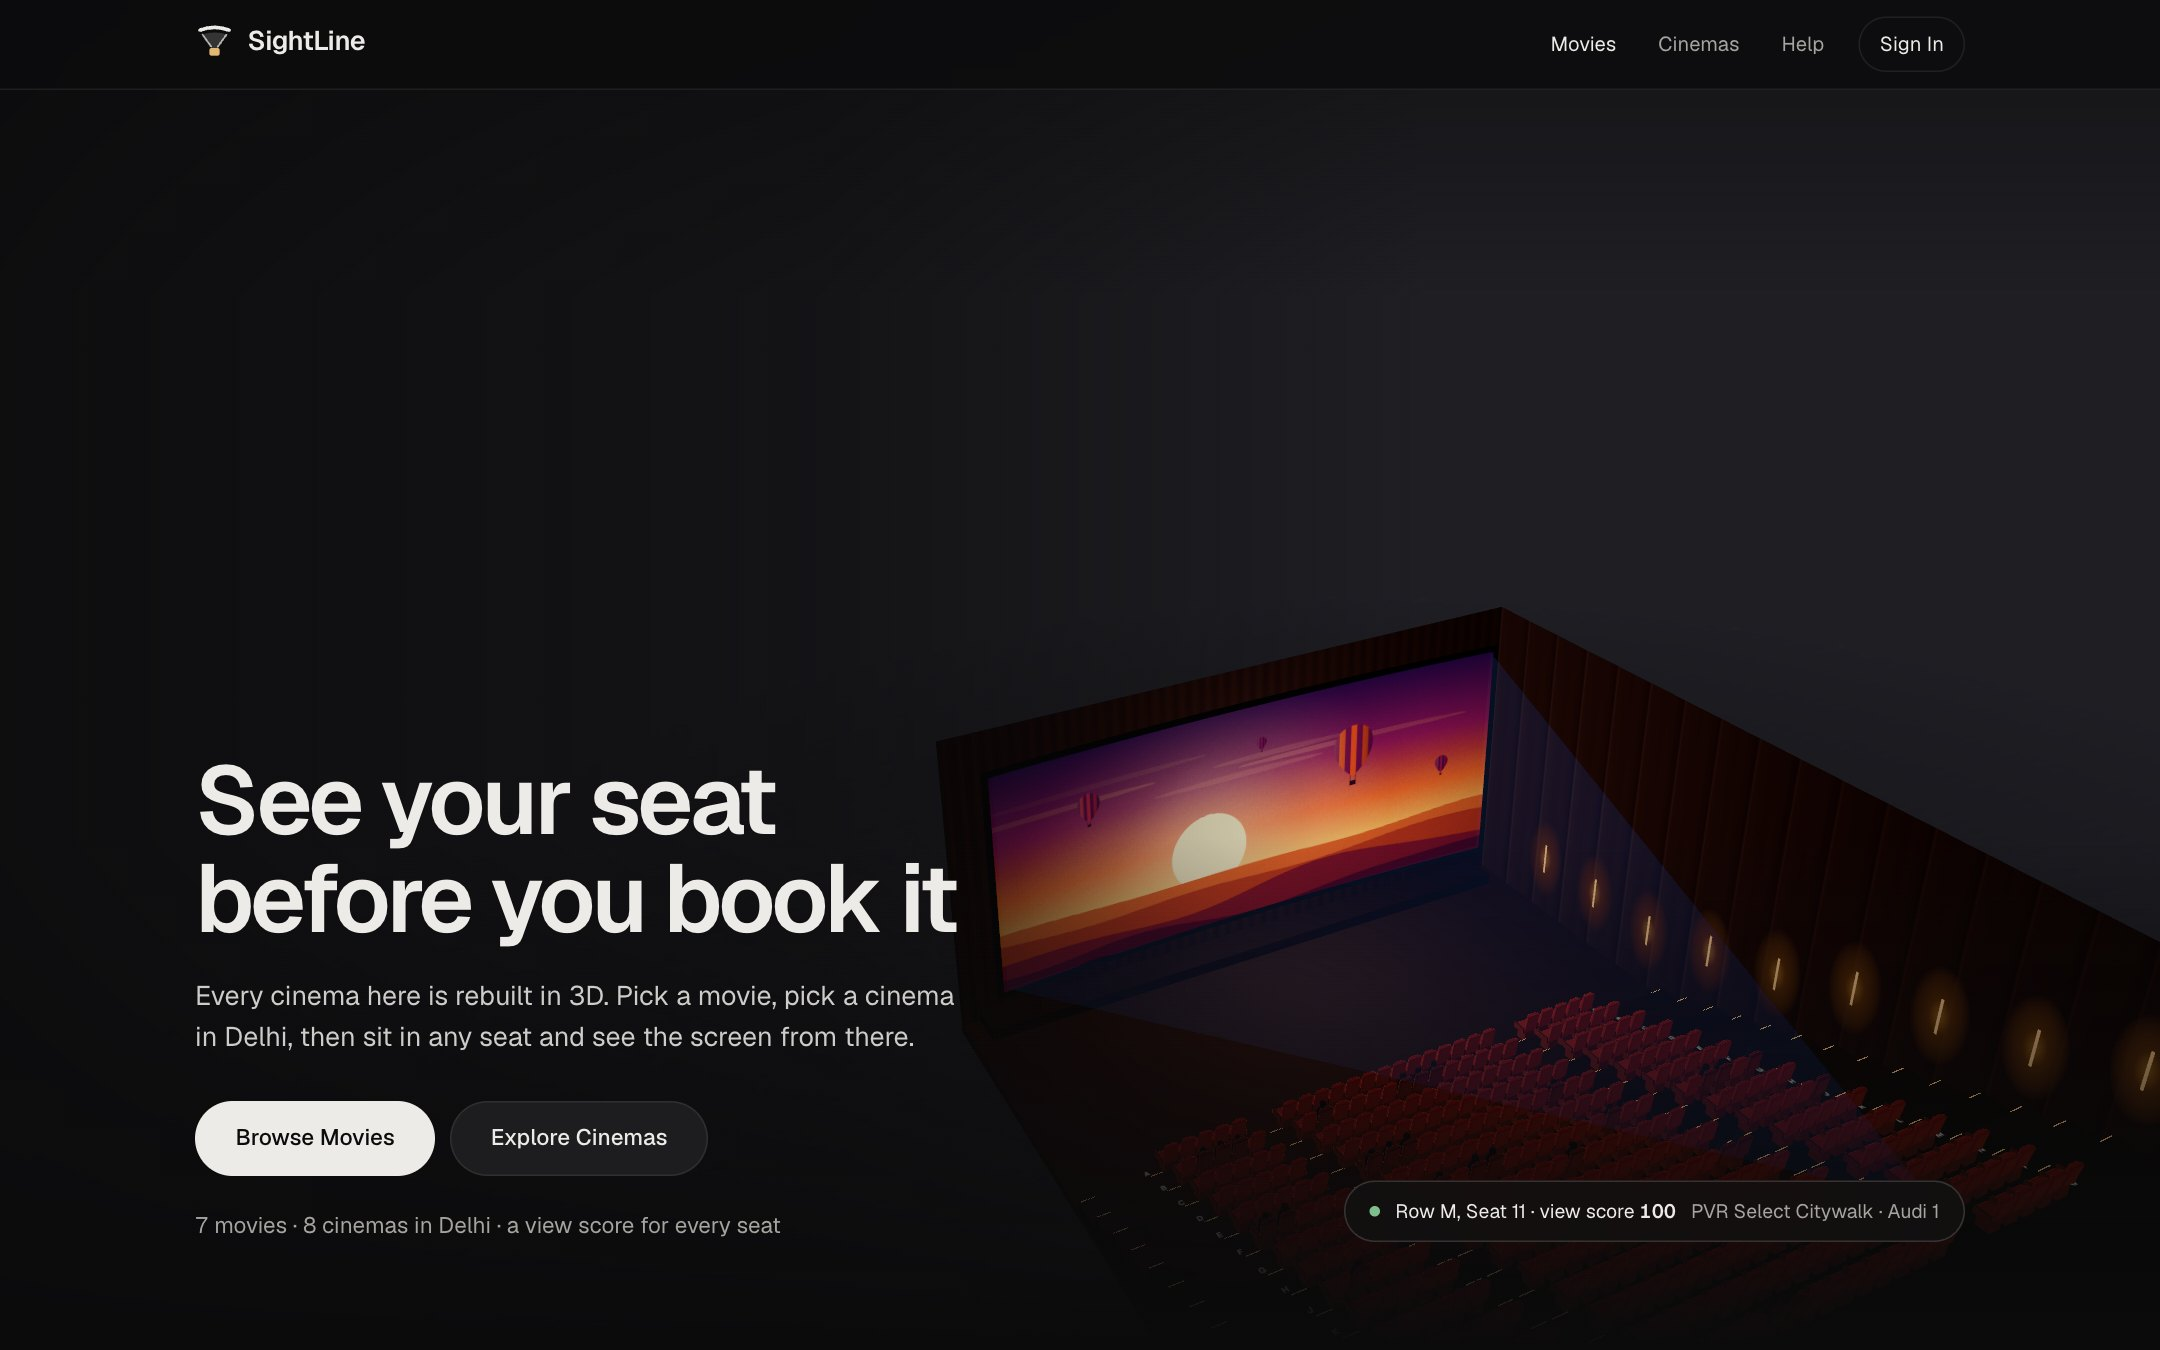
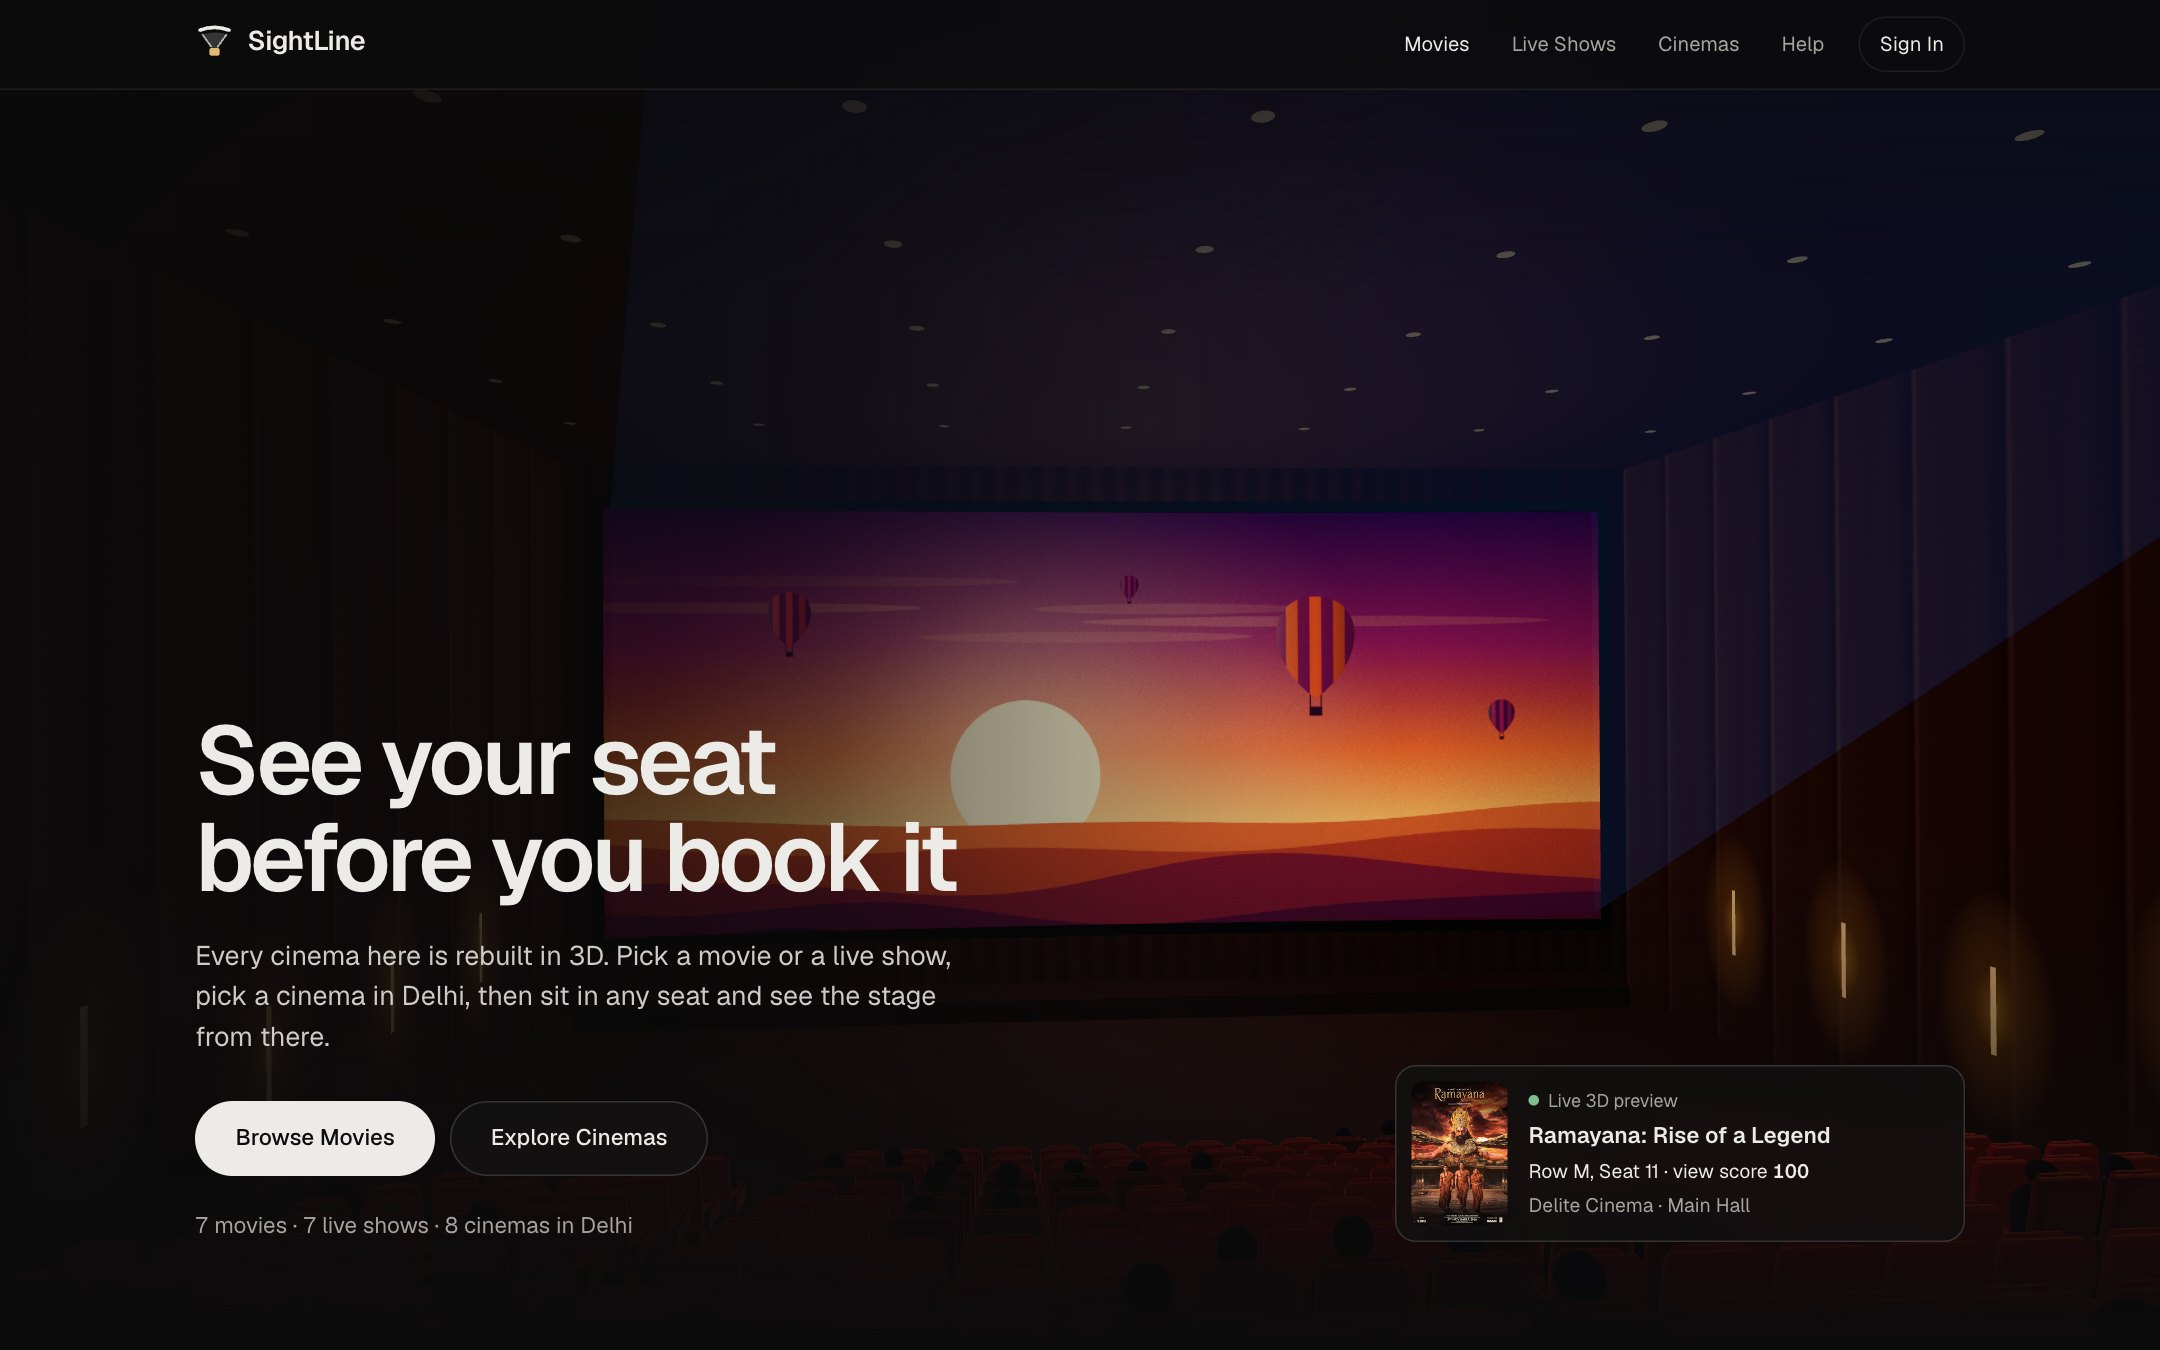
feat(home): sharper landing page
- Hero card shows the lead movie's poster beside the live 3D preview
- All seven movies in one row of posters on wide screens
- Closing band with the lead movie's poster and booking actions
- Next show names its day; cinemas copy no longer mentions seat plans

diff --git a/src/styles.css b/src/styles.css
@@ -128,14 +128,15 @@ button.chip:hover { color: var(--text); border-color: var(--line-strong); }
 .cert { border: 1px solid var(--line-strong); border-radius: 4px; padding: 0 5px; font-size: 11.5px; line-height: 1.6; }
 
 /* movies */
-.movie-grid { display: grid; grid-template-columns: repeat(4, minmax(0, 1fr)); gap: 36px 20px; }
+.movie-grid { display: grid; grid-template-columns: repeat(7, minmax(0, 1fr)); gap: 32px 16px; }
+@media (max-width: 1240px) { .movie-grid { grid-template-columns: repeat(4, minmax(0, 1fr)); gap: 36px 20px; } }
 .movie-card { display: block; }
 .movie-card-art { position: relative; aspect-ratio: 2 / 3; border-radius: 10px; overflow: hidden; background: var(--surface); margin-bottom: 12px; }
 .poster { width: 100%; height: 100%; object-fit: cover; transition: transform 0.3s cubic-bezier(0.2, 0.7, 0.2, 1), opacity 0.3s; }
 .movie-card:hover .poster { transform: scale(1.03); }
-.movie-card-cta { position: absolute; left: 10px; right: 10px; bottom: 10px; height: 40px; display: grid; place-items: center; border-radius: 999px; background: var(--text); color: #0b0b0c; font-weight: 500; font-size: 13.5px; opacity: 0; transform: translateY(6px); transition: opacity 0.25s ease, transform 0.25s ease; }
+.movie-card-cta { position: absolute; left: 8px; right: 8px; bottom: 8px; height: 36px; display: grid; place-items: center; border-radius: 999px; background: var(--text); color: #0b0b0c; font-weight: 500; font-size: 13.5px; opacity: 0; transform: translateY(6px); transition: opacity 0.25s ease, transform 0.25s ease; }
 .movie-card:hover .movie-card-cta, .movie-card:focus-visible .movie-card-cta { opacity: 1; transform: none; }
-.movie-card h3 { font-size: 15.5px; font-weight: 500; letter-spacing: -0.01em; margin-bottom: 2px; }
+.movie-card h3 { font-size: 15px; font-weight: 500; letter-spacing: -0.01em; margin-bottom: 2px; }
 
 /* movie page */
 .movie-hero { position: relative; margin-top: calc(var(--nav-h) * -1); padding: calc(var(--nav-h) + 28px) 0 44px; overflow: hidden; isolation: isolate; }
@@ -669,9 +670,16 @@ a.time:hover small { color: var(--ink-soft); }
 }
 
 /* the page ends on its main action */
-.home-close { display: flex; align-items: center; justify-content: space-between; gap: 16px 32px; flex-wrap: wrap; margin-top: 64px; }
-.home-close p { font-size: 18px; color: var(--muted); max-width: 46ch; }
-@media (max-width: 700px) { .home-close .btn { width: 100%; } }
+.home-close { position: relative; isolation: isolate; overflow: hidden; display: flex; align-items: center; gap: 32px; margin-top: 72px; padding: clamp(24px, 4vw, 48px); border-radius: var(--radius); border: 1px solid var(--line); background: var(--bg-2); }
+.home-close-bg { position: absolute; inset: 0; width: 100%; height: 100%; object-fit: cover; z-index: -2; }
+.home-close-scrim { position: absolute; inset: 0; z-index: -1; background: linear-gradient(90deg, rgba(11, 11, 12, 0.92) 30%, rgba(11, 11, 12, 0.55)); }
+.home-close-poster { flex: none; width: clamp(120px, 14vw, 180px); aspect-ratio: 2 / 3; border-radius: 12px; overflow: hidden; border: 1px solid var(--line-strong); }
+.home-close-poster .poster { width: 100%; height: 100%; object-fit: cover; border-radius: 0; }
+.home-close-copy h2 { font-size: clamp(32px, 4vw, 48px); letter-spacing: -0.04em; line-height: 1.05; }
+.home-close-copy p { margin-top: 12px; font-size: 18px; color: rgba(236, 235, 231, 0.82); max-width: 44ch; }
+.home-close-cta { display: flex; flex-wrap: wrap; gap: 10px; margin-top: 24px; }
+.home-close .btn-glass { background: rgba(20, 20, 21, 0.6); backdrop-filter: blur(16px); -webkit-backdrop-filter: blur(16px); border-color: var(--line-strong); }
+@media (max-width: 700px) { .home-close { flex-direction: column; align-items: flex-start; } .home-close-cta .btn { width: 100%; } }
 
 .empty-actions { display: flex; flex-wrap: wrap; justify-content: center; gap: 10px; margin-top: 10px; }
 .empty-actions .btn { margin-top: 0; }
@@ -708,14 +716,19 @@ a.time:hover small { color: var(--ink-soft); }
 .home-hero-lede { margin-top: 18px; font-size: 18px; line-height: 1.5; color: rgba(236, 235, 231, 0.86); max-width: 44ch; animation: rise 0.5s 0.06s cubic-bezier(0.16, 1, 0.3, 1) both; }
 .home-hero-cta { display: flex; flex-wrap: wrap; gap: 10px; margin-top: 30px; }
 .home-hero-facts { margin-top: 22px; font-size: 15px; color: var(--muted); font-variant-numeric: tabular-nums; }
-.home-hero-live { position: absolute; right: max(24px, calc((100% - 1180px) / 2)); bottom: 72px; display: flex; align-items: center; gap: 10px; flex-wrap: wrap; max-width: min(420px, calc(100% - 48px)); padding: 10px 16px; border-radius: 999px; background: rgba(16, 16, 17, 0.72); backdrop-filter: blur(14px); -webkit-backdrop-filter: blur(14px); border: 1px solid var(--line-strong); font-size: 13px; opacity: 0; transition: opacity 0.3s; }
-.home-hero-live.on { opacity: 1; }
-.home-hero-live b { font-weight: 600; font-variant-numeric: tabular-nums; }
+.home-hero-live { position: absolute; right: max(24px, calc((100% - 1180px) / 2)); bottom: 72px; display: flex; align-items: center; gap: 14px; width: min(380px, calc(100% - 48px)); padding: 10px 16px 10px 10px; border-radius: var(--radius); background: rgba(16, 16, 17, 0.72); backdrop-filter: blur(14px); -webkit-backdrop-filter: blur(14px); border: 1px solid var(--line-strong); font-size: 13px; opacity: 0; transform: translateY(8px); transition: opacity 0.4s ease, transform 0.4s ease; }
+.home-hero-live.on { opacity: 1; transform: none; }
+.home-hero-live-poster { flex: none; width: 64px; aspect-ratio: 2 / 3; border-radius: 8px; overflow: hidden; background: var(--surface); }
+.home-hero-live-poster .poster { width: 100%; height: 100%; object-fit: cover; border-radius: 0; }
+.home-hero-live-text { display: grid; gap: 3px; min-width: 0; }
+.home-hero-live-label { display: inline-flex; align-items: center; gap: 6px; font-size: 12px; color: var(--muted); }
+.home-hero-live-title { font-size: 15px; font-weight: 600; white-space: nowrap; overflow: hidden; text-overflow: ellipsis; }
+.home-hero-live b:not(.home-hero-live-title) { font-weight: 600; font-variant-numeric: tabular-nums; }
 .home-hero-live-dot { width: 7px; height: 7px; border-radius: 50%; background: var(--available); flex: none; }
 .home-hero-live-venue { color: var(--muted); }
 @media (max-width: 900px) {
-  .home-hero-live { left: 16px; right: 16px; bottom: 20px; border-radius: 14px; }
-  .home-hero-copy { padding-bottom: 120px; }
+  .home-hero-live { left: 16px; right: 16px; bottom: 20px; width: auto; }
+  .home-hero-copy { padding-bottom: 168px; }
   .home-hero-scrim { background: linear-gradient(180deg, rgba(11, 11, 12, 0.6) 0%, rgba(11, 11, 12, 0.15) 30%, rgba(11, 11, 12, 0.82) 64%, var(--bg) 100%); }
 }
 
@@ -725,7 +738,7 @@ a.time:hover small { color: var(--ink-soft); }
 .movie-card-meta { font-size: 13px; color: var(--muted); }
 
 /* how it works */
-.how { display: grid; grid-template-columns: minmax(0, 1fr) minmax(0, 1.05fr); gap: 56px; align-items: start; }
+.how { display: grid; grid-template-columns: minmax(0, 1fr) minmax(0, 1.05fr); gap: 56px; align-items: center; }
 .how-steps h2 { font-size: clamp(32px, 4vw, 48px); letter-spacing: -0.04em; }
 .how-intro { margin-top: 14px; max-width: 46ch; }
 .how-list { list-style: none; margin-top: 28px; counter-reset: step; }

diff --git a/src/pages/Home.tsx b/src/pages/Home.tsx
@@ -1,14 +1,14 @@
 import { lazy, Suspense, useEffect, useMemo, useRef, useState } from 'react';
 import { Link, useSearchParams } from 'react-router-dom';
 import { Search } from 'lucide-react';
-import { Backdrop } from '../components/Art';
+import { Backdrop, Poster } from '../components/Art';
 import CinemaCard from '../components/CinemaCard';
 import EventCard from '../components/EventCard';
 import HallPlan from '../components/HallPlan';
 import MovieCard from '../components/MovieCard';
 import SeatDetails from '../components/SeatDetails';
 import { CINEMAS } from '../data/cinemas';
-import { EVENTS, MOVIES, languages, crowdFor, dateKey, formatTime, showsFor, upcomingDays, venueOf, type Show } from '../data/movies';
+import { EVENTS, MOVIES, languages, crowdFor, dateKey, formatDate, formatTime, showsFor, upcomingDays, venueOf, type Show } from '../data/movies';
 import { getLayout, type HallLayout, type Seat } from '../lib/hall';
 import { warmBooking } from '../lib/preload';
 import { useTitle } from '../lib/useTitle';
@@ -154,21 +154,29 @@ export default function Home() {
             {MOVIES.length} movies · {EVENTS.length} live shows · {CINEMAS.length} cinemas in Delhi
           </p>
         </div>
-        {heroVenue ? (
-          <div className={`home-hero-live ${live ? 'on' : ''}`} aria-live="polite">
-            <span className="home-hero-live-dot" aria-hidden="true" />
-            <span>
-              {liveSeat ? (
-                <>
-                  Row {liveSeat.rowLabel}, Seat {liveSeat.number} · view score <b>{Math.round(heroLayout.metrics[liveSeat.index].score)}</b>
-                </>
-              ) : (
-                'Whole hall'
-              )}
-            </span>
-            <span className="home-hero-live-venue">
-              {heroVenue.cinema.name} · {heroVenue.screen.name}
-            </span>
+        {heroVenue && heroShow ? (
+          <div className={`home-hero-live ${live ? 'on' : ''}`}>
+            <Link to={`/movie/${featured.id}`} className="home-hero-live-poster" aria-label={`${featured.title}: showtimes`}>
+              <Poster movie={featured} eager />
+            </Link>
+            <div className="home-hero-live-text" aria-live="polite">
+              <span className="home-hero-live-label">
+                <span className="home-hero-live-dot" aria-hidden="true" /> Live 3D preview
+              </span>
+              <b className="home-hero-live-title">{featured.title}</b>
+              <span>
+                {liveSeat ? (
+                  <>
+                    Row {liveSeat.rowLabel}, Seat {liveSeat.number} · view score <b>{Math.round(heroLayout.metrics[liveSeat.index].score)}</b>
+                  </>
+                ) : (
+                  'Whole hall'
+                )}
+              </span>
+              <span className="home-hero-live-venue">
+                {heroVenue.cinema.name} · {heroVenue.screen.name}
+              </span>
+            </div>
           </div>
         ) : null}
       </section>
@@ -265,7 +273,7 @@ export default function Home() {
         <div className="section-head">
           <div>
             <h2>Cinemas in Delhi</h2>
-            <p className="muted">From Saket to Connaught Place. Each card shows the plan of its biggest auditorium.</p>
+            <p className="muted">From Saket to Connaught Place and Dwarka, every auditorium rebuilt in 3D.</p>
           </div>
           <Link to="/cinemas" className="btn btn-secondary">
             All Cinemas
@@ -278,12 +286,25 @@ export default function Home() {
         </div>
         {heroShow ? (
           <div className="home-close">
-            <p>
-              {featured.title} is playing next at {heroVenue?.cinema.name}, {formatTime(heroShow.start)}.
-            </p>
-            <Link className="btn btn-primary btn-lg" to={`/movie/${featured.id}`}>
-              Book Tickets
+            <Backdrop movie={featured} className="home-close-bg" />
+            <div className="home-close-scrim" />
+            <Link to={`/movie/${featured.id}`} className="home-close-poster" tabIndex={-1} aria-hidden="true">
+              <Poster movie={featured} />
             </Link>
+            <div className="home-close-copy">
+              <h2>{featured.title}</h2>
+              <p>
+                Playing next at {heroVenue?.cinema.name}, {heroShow.dateKey === today ? 'today' : formatDate(heroShow.start)} at {formatTime(heroShow.start)}. Pick your seat in 3D before you pay.
+              </p>
+              <div className="home-close-cta">
+                <Link className="btn btn-primary btn-lg" to={`/movie/${featured.id}`}>
+                  Book Tickets
+                </Link>
+                <Link className="btn btn-glass btn-lg" to="/events">
+                  Browse Live Shows
+                </Link>
+              </div>
+            </div>
           </div>
         ) : null}
       </section>

diff --git a/src/components/MovieCard.tsx b/src/components/MovieCard.tsx
@@ -15,7 +15,7 @@ export default function MovieCard({ movie, cinemas }: { movie: Movie; cinemas?: 
       </div>
       <h3>{movie.title}</h3>
       <p className="movie-card-meta">
-        {movie.language} · {movie.genres.slice(0, 2).join(', ')}
+        {movie.language} · {movie.genres[0]}
       </p>
       <p className="movie-card-meta">
         {formatRuntime(movie.runtime)}

diff --git a/DESIGN.md b/DESIGN.md
@@ -295,7 +295,8 @@ Two families. Anything pressed is a full pill (`999px`): buttons, chips, tabs, s
 
 ### Home Hero
 - The live 3D auditorium fills the first screen: a large-screen hall playing the lead movie, which flies into a seat, holds it, pulls back to the whole hall and moves on to the next seat. The movie's backdrop sits behind it as a still until the 3D is ready, and stays when WebGL is missing; under reduced motion the hall holds one seat view.
-- Over it, bottom-left: the product line (h1, Hero size), one sentence on how the site works, Browse Movies (Primary) and Explore Cinemas (Glass), then a Muted facts line. Bottom-right, a translucent caption pill names the current seat, its view score and the cinema and auditorium, with an Available dot. A scrim keeps the copy legible over the hall.
+- Over it, bottom-left: the product line (h1, Hero size), one sentence on how the site works, Browse Movies (Primary) and Explore Cinemas (Glass), then a Muted facts line. Bottom-right, a translucent card shows the lead movie's poster beside "Live 3D preview" (with an Available dot), the title, the current seat and its view score, and the cinema and auditorium; it slides up once the hall is ready. Below the hero, the movies sit in one row of seven posters on wide screens (four, three, then two columns as the screen narrows).
+- The page ends on a closing band: a rounded card with the lead movie's blurred poster behind a left-to-right scrim, the sharp poster, its title at Statement size, when and where it plays next, and Book Tickets with Browse Live Shows. A scrim keeps the copy legible over the hall.
 
 ### Movie Card
 - The poster at 2:3 with a small "New this week" tag in its corner for releases under a week old, then the title at Title size and two Muted lines: language and two genres, then runtime and how many cinemas show it today. The whole card links to the movie.
